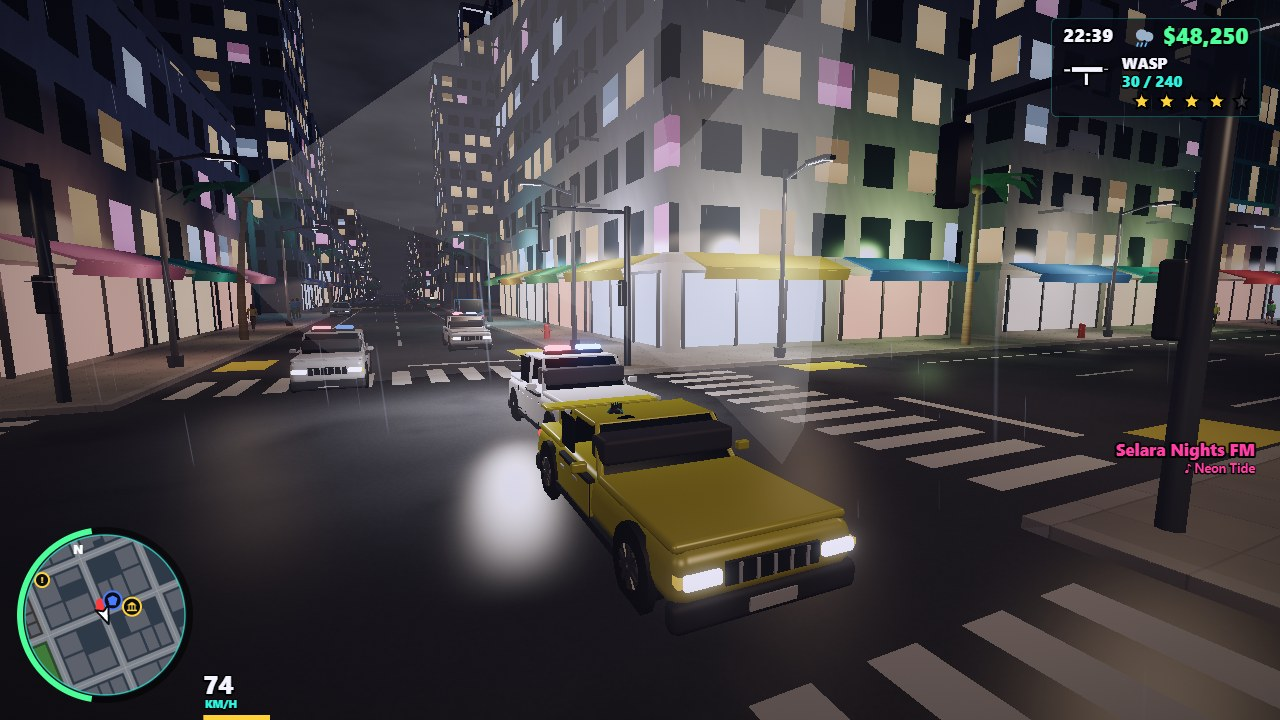
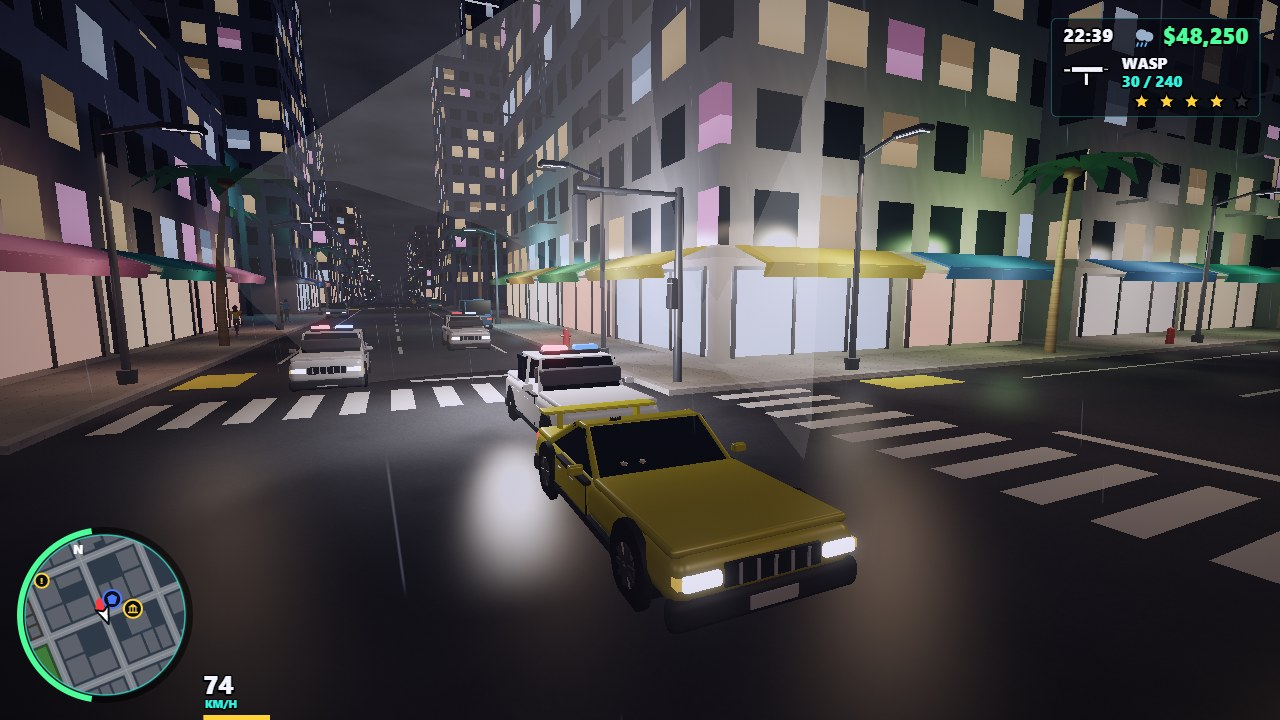
Polish: garage cutscene framed looking out of the bay, wider over-the-shoulder aim framing, Vesper GT as a low fastback coupe, retaken screenshots, sturdier playtest bot

diff --git a/game/js/entities/vehicle-model.js b/game/js/entities/vehicle-model.js
@@ -17,7 +17,7 @@ export const VEHICLES = {
   kancil: { name: 'Kancil', len: 3.7, wid: 1.66, h: 0.62, cabin: [0.55, -1.25], roof: 1.55, wheel: 0.3, axle: [1.2, -1.2], mass: 950, accel: 7.5, top: 36, grip: 7.5, steer: 0.62, colors: ['#e8d24a', '#e05a3a', '#4aa0e0', '#f2f2f2', '#9ae06a'] },
   merpati: { name: 'Merpati', len: 4.55, wid: 1.82, h: 0.64, cabin: [0.75, -1.15], roof: 1.52, wheel: 0.33, axle: [1.45, -1.45], mass: 1350, accel: 8.5, top: 45, grip: 8, steer: 0.56, colors: ['#3a5a8a', '#c03a3a', '#2a2a2e', '#d8d8d8', '#6a6a72', '#2a6a4a', '#8a6a3a'] },
   taxi: { name: 'Selara Taxi', len: 4.55, wid: 1.82, h: 0.64, cabin: [0.75, -1.15], roof: 1.52, wheel: 0.33, axle: [1.45, -1.45], mass: 1350, accel: 8.5, top: 44, grip: 8, steer: 0.56, colors: ['#18b8ae'], taxi: true },
-  vesper: { name: 'Vesper GT', len: 4.5, wid: 1.96, h: 0.5, cabin: [0.35, -1.1], roof: 1.3, wheel: 0.34, axle: [1.45, -1.45], mass: 1250, accel: 13.5, top: 62, grip: 9.5, steer: 0.5, colors: ['#f2c41a', '#d02a2a', '#1a1a1e', '#e8e8e8'], sport: true },
+  vesper: { name: 'Vesper GT', len: 4.6, wid: 1.98, h: 0.44, cabin: [0.3, -1.55], roof: 1.2, wheel: 0.34, axle: [1.45, -1.45], mass: 1250, accel: 13.5, top: 62, grip: 9.5, steer: 0.5, colors: ['#f2c41a', '#d02a2a', '#1a1a1e', '#e8e8e8'], sport: true },
   bajak: { name: 'Bajak', len: 4.9, wid: 1.96, h: 0.8, cabin: [1.35, -2.35], roof: 2.1, wheel: 0.36, axle: [1.65, -1.6], mass: 2100, accel: 6.5, top: 36, grip: 6.5, steer: 0.52, colors: ['#e8e8e8', '#3a6aa8', '#c0a060', '#5a8a5a'], van: true },
   bison: { name: 'Bison', len: 7.2, wid: 2.4, h: 1.0, cabin: [3.0, 1.6], roof: 2.85, wheel: 0.48, axle: [2.55, -2.3], mass: 6500, accel: 4.6, top: 30, grip: 6, steer: 0.46, colors: ['#c03a2a', '#3a3a6a', '#4a4a4a'], truck: true, size: 1.4 },
   patrol: { name: 'Garuda Patrol', len: 4.7, wid: 1.86, h: 0.64, cabin: [0.75, -1.15], roof: 1.53, wheel: 0.34, axle: [1.5, -1.5], mass: 1500, accel: 11, top: 54, grip: 9, steer: 0.55, colors: ['#f2f2f2'], police: true },
@@ -64,7 +64,9 @@ export function buildVehicle(gl, type) {
     const y0 = bodyY + H / 2;
     const roofY = d.roof;
     const lean = d.sport ? 0.55 : d.van ? 0.25 : 0.42;
-    const roofF = cf - (roofY - y0) * lean * 1.4, roofB = cb + (roofY - y0) * lean * (d.van ? 0.2 : 0.9);
+    // Sports coupe: steeply raked windscreen, short roof, long shallow fastback.
+    const roofF = d.sport ? cf - 0.6 : cf - (roofY - y0) * lean * 1.4;
+    const roofB = d.sport ? cb + 0.95 : cb + (roofY - y0) * lean * (d.van ? 0.2 : 0.9);
     const rw = W * (d.van ? 0.94 : 0.82);
     b.paint([1, 1, 1], paintMat).bevelBox(0, roofY, (roofF + roofB) / 2, rw, 0.08, roofF - roofB, 0.04);
     // Pillars.
@@ -79,8 +81,17 @@ export function buildVehicle(gl, type) {
     b.push().transform(0, (y0 + roofY) / 2, (cf + roofF) / 2, 0, -Math.atan2(cf - roofF, roofY - y0), 0).box(0, 0, 0, W * 0.84, wsLen, 0.04).pop();
     const rwLen = Math.hypot(roofY - y0, roofB - cb);
     b.push().transform(0, (y0 + roofY) / 2, (cb + roofB) / 2, 0, Math.atan2(roofB - cb, roofY - y0), 0).box(0, 0, 0, W * 0.84, rwLen, 0.04).pop();
+    // Coupe side glass: one tinted trapezoid per side following the roofline.
+    if (d.sport) {
+      for (const s of [-1, 1]) {
+        const x0 = s * W * 0.45, x1 = s * rw * 0.49;
+        const q = [[x0, y0, cb], [x0, y0, cf], [x1, roofY - 0.02, roofF], [x1, roofY - 0.02, roofB]];
+        b.quad(q[0], q[1], q[2], q[3]);
+        b.quad(q[3], q[2], q[1], q[0]);
+      }
+    }
     // Rear side glass (fixed); the front side windows are rolled down so the driver shows.
-    for (const s of [-1, 1]) {
+    for (const s of d.sport ? [] : [-1, 1]) {
       b.push().transform(s * W * 0.45, (y0 + roofY) / 2, (cb + (cf + cb) / 2 - 0.15) / 2, 0, 0, 0);
       b.box(0, 0, 0, 0.03, roofY - y0 - 0.06, Math.abs((cf + cb) / 2 - 0.15 - cb) - 0.1);
       b.pop();
@@ -92,9 +103,10 @@ export function buildVehicle(gl, type) {
       b.bevelBox(s * 0.38, y0 - 0.45, -0.15, 0.5, 0.14, 0.55, 0.05);
       b.bevelBox(s * 0.38, (y0 - 0.45 + backTop) / 2, -0.5, 0.5, backTop - y0 + 0.45, 0.14, 0.05);
     }
-    b.paint(hex('#1e1e22'), MAT.PLAIN).bevelBox(0, y0 + 0.28, cf - 0.18, W * 0.86, 0.3, 0.45, 0.06);
+    const dash = d.sport ? -0.45 : 0;
+    b.paint(hex('#1e1e22'), MAT.PLAIN).bevelBox(0, y0 + 0.28 + dash * 0.5, cf - 0.18 + dash * 1.2, W * 0.86, 0.3, 0.45, 0.06);
     // Right-hand drive (traffic keeps left): the wheel sits on the car's right, body -X.
-    b.paint(hex('#111'), MAT.PLAIN).push().transform(-0.38, y0 + 0.4, cf - 0.5, 0, -1.0, 0).cylinder(0, 0, 0, 0.19, 0.19, 0.03, 12, { bottom: true }).pop();
+    b.paint(hex('#111'), MAT.PLAIN).push().transform(-0.38, y0 + 0.4 + dash * 0.3, cf - 0.5 + dash, 0, -1.0, 0).cylinder(0, 0, 0, 0.19, 0.19, 0.03, 12, { bottom: true }).pop();
   }
   // ---------------------------------------------------------------- front, rear, trim
   b.paint(trim, MAT.PLAIN);

diff --git a/tools/playtest-scenario.js b/tools/playtest-scenario.js
@@ -128,6 +128,7 @@ async (page) => {
   /** Aim at a ped with the right mouse button and shoot with the left until it is down. */
   const shootDown = async (pedIndexExpr, ms = 20000) => {
     const end = Date.now() + ms;
+    let hidden = 0;
     await page.mouse.move(640, 360);
     await page.mouse.down({ button: 'right' });
     while (Date.now() < end) {
@@ -139,10 +140,25 @@ async (page) => {
         const q = list[0];
         if (!q) return null;
         const cam = g.camera.pos;
-        return { vis: seen(q), yaw: Math.atan2(q.x - p.x, q.z - p.z), pitch: Math.atan2(q.y + 1.2 - cam[1], Math.hypot(q.x - cam[0], q.z - cam[2])), d: Math.hypot(q.x - p.x, q.z - p.z), x: q.x, z: q.z };
+        return { vis: seen(q), yaw: Math.atan2(q.x - cam[0], q.z - cam[2]), pitch: Math.atan2(q.y + 1.2 - cam[1], Math.hypot(q.x - cam[0], q.z - cam[2])), d: Math.hypot(q.x - p.x, q.z - p.z), x: q.x, z: q.z };
       }, pedIndexExpr);
       if (!t) break;
-      if (t.d > 26 || !t.vis) { await page.mouse.up({ button: 'right' }); await walkTo(t.x, t.z, { r: t.vis ? 14 : 5, ms: 5000, sprint: true }); await page.mouse.down({ button: 'right' }); continue; }
+      hidden = t.vis ? 0 : hidden + 1;
+      if (hidden > 25) {
+        // Reposition to a vantage point that can see the target, then keep aiming for real.
+        await ev(([tx, tz]) => {
+          const g = window.__app.game, col = g.city.col;
+          for (let r = 9; r <= 18; r += 3) for (let a = 0; a < 6.28; a += 0.4) {
+            const x = tx + Math.cos(a) * r, z = tz + Math.sin(a) * r;
+            const res = col.resolveCircle(x, z, 0.4, 0.15, 1.8);
+            if (res.hit) continue;
+            if (col.lineClear(x, 1.6, z, tx, 1.3, tz)) { g.player.place(x, z, Math.atan2(tx - x, tz - z)); g.camCtl.face(Math.atan2(tx - x, tz - z)); return; }
+          }
+        }, [t.x, t.z]);
+        hidden = 0;
+        continue;
+      }
+      if (t.d > 45 || !t.vis) { await page.mouse.up({ button: 'right' }); await walkTo(t.x, t.z, { r: t.vis ? 14 : 5, ms: 5000, sprint: true }); await page.mouse.down({ button: 'right' }); continue; }
       await look(t.yaw, t.pitch * 0.9);
       await page.mouse.down();
       await sleep(90);
@@ -214,6 +230,11 @@ async (page) => {
     await driveTo(garage.bay[0], garage.bay[1], { r: 4.5 });
     await until((s) => s.stars === 0, 60000, 'lost the cops by breaking line of sight');
     step('wanted level lost by breaking line of sight');
+    for (let k = 0; k < 3; k++) {
+      const s = await S();
+      if (s.passed >= 2 || s.cine || !s.veh) break;
+      if (Math.hypot(s.veh.x - garage.bay[0], s.veh.z - garage.bay[1]) > 5) await driveTo(garage.bay[0], garage.bay[1], { r: 4.5 });
+    }
     await until((s) => s.passed >= 2 || s.cine, 15000, 'Vesper delivered');
     await skipCutscenes();
     await until((s) => s.passed >= 2, 8000, 'Yellow Fever passed');
@@ -237,7 +258,7 @@ async (page) => {
     await tp(cafe.front[0] + 40, cafe.front[1] - 4, -Math.PI / 2);
     await walkTo(cafe.front[0] + 22, cafe.front[1] - 4, { sprint: true, r: 2 });
     await ev(() => { const g = window.__app.game; g.player.armor = 100; g.arsenal.owned.pistol.ammo = 200; });
-    await shootDown('gang', 60000);
+    await shootDown('gang', 90000);
     await until((s) => /Grab the cash bag/.test(s.obj), 8000, 'all four enforcers defeated by aiming and shooting');
     step('won the firefight with real aiming and shooting');
     const bag = await ev(() => window.__app.game.missions.target);

diff --git a/game/js/debug/shots.js b/game/js/debug/shots.js
@@ -71,14 +71,14 @@ export async function runShot(app, name) {
   } else if (name === 'cutscene') {
     midGame(app);
     app.setState('playing');
-    g.env.hour = 17.35;
+    g.env.hour = 17.95;
     g.populate(16, 24);
     const lin = g.missions.stageGarage();
     g.dialogue.actors = { lin, kai: g.player };
     const sides = [1, -1].map((sd) => [sd, twoShot({ ...g.player }, { ...lin }, sd).pos[2]]);
-    const side = sides[0][1] < sides[1][1] ? sides[0][0] : sides[1][0];
+    const side = sides[0][1] > sides[1][1] ? sides[0][0] : sides[1][0];
     void openSide;
-    g.cinematic = { cam: { ...twoShot(g.player, lin, side, 3.4, 1.5, 0.5), fov: 44 }, portrait: 'lin', skipHint: false };
+    g.cinematic = { cam: { ...twoShot(g.player, lin, side, 3.2, 1.35, 0.3), fov: 46 }, portrait: 'lin', skipHint: false };
     g.dialogue.say([['lin', "Viktor's nephew parks a yellow Vesper GT outside Bank Samudra like the street is his.", 30]]);
     g.controlsOn = false;
     await wait(app, 3);

diff --git a/game/js/story/missions.js b/game/js/story/missions.js
@@ -298,9 +298,9 @@ export class MissionSystem {
   linShots(lin, lines, extra = []) {
     const w = this.w;
     const kai = w.player;
-    // Frame from the street side: the open bay, lifted cars and the neon sign sit behind the pair.
+    // Frame from inside the garage looking out of the open bay: street, palms and the low sun behind them.
     const sides = [1, -1].map((sd) => [sd, twoShot({ ...kai }, { ...lin }, sd).pos[2]]);
-    const side = sides[0][1] < sides[1][1] ? sides[0][0] : sides[1][0];
+    const side = sides[0][1] > sides[1][1] ? sides[0][0] : sides[1][0];
     void openSide;
     return [
       { dur: 3, lines: lines.slice(0, 2), cam: (k) => { const s = twoShot(kai, lin, side, 3.6 - k * 0.4, 1.55, -0.2); return { ...s, fov: 42 }; } },

diff --git a/game/js/world/landmarks.js b/game/js/world/landmarks.js
@@ -56,6 +56,8 @@ function garage(ctx, L) {
   // Neon sign over the bay.
   signAt(ctx, "LIN'S GARAGE", cx, Y + h - 0.9, z0 - 0.02, Math.PI, 16, 2.6, { fg: '#ff7a3a', font: '900 96px "Arial Black", sans-serif', flicker: true }, 3.2);
   ctx.neonLights.push([cx, Y + h - 0.6, z0 - 1.5, [1.0, 0.45, 0.15]]);
+  // Palms across the street, framed by the open bay.
+  for (const dx of [-12, -4, 4, 12]) ctx.props.add('palm', cx + dx, Y, L.z0 - 18.8, dx, 1.1);
   // Fill the rest of the lot with ordinary Kemuning buildings.
   ctx.fill(L.x0, z1 + 6, L.x1, L.z1, ['w', 'e', 's']);
   ctx.fill(L.x0, L.z0, x0 - 4, z1 + 2, ['w', 'n']);

diff --git a/game/js/entities/camera-controller.js b/game/js/entities/camera-controller.js
@@ -48,8 +48,9 @@ export class CameraController {
     this.pitch = clamp(this.pitch - look[1], -1.2, 0.85);
     this.aimBlend = damp(this.aimBlend, aim, 12, dt);
     const a = this.aimBlend;
-    const dist = lerp(4.6, 2.9, a);
-    const side = lerp(0.35, 0.72, a);
+    // Aiming tightens over the right shoulder with Kai on the left third (~15-20% of the frame).
+    const dist = lerp(4.6, 3.8, a);
+    const side = lerp(0.35, 1.25, a);
     const height = lerp(1.75, 1.6, a);
     const fwd = [Math.sin(this.yaw), Math.cos(this.yaw)];
     const right = [-fwd[1], fwd[0]];

diff --git a/game/js/entities/car-entry.js b/game/js/entities/car-entry.js
@@ -32,7 +32,7 @@ export class CarEntry {
   static seatMatrix(v) {
     const d = v.def;
     const y0 = d.wheel * 0.9 + d.h / 2 + d.h / 2;
-    const seat = m4compose(-0.38, y0 - 0.86 + v.susp + (d.truck ? 0.5 : 0), -0.2 + (d.truck ? 1.9 : 0), 0, 0, 0);
+    const seat = m4compose(-0.38, y0 - 0.86 + v.susp + (d.truck ? 0.5 : 0) + (d.sport ? -0.12 : 0), -0.2 + (d.truck ? 1.9 : 0), 0, 0, 0);
     return m4mul(v.model, m4mul(v.bones.subarray(0, 16), seat));
   }
 
